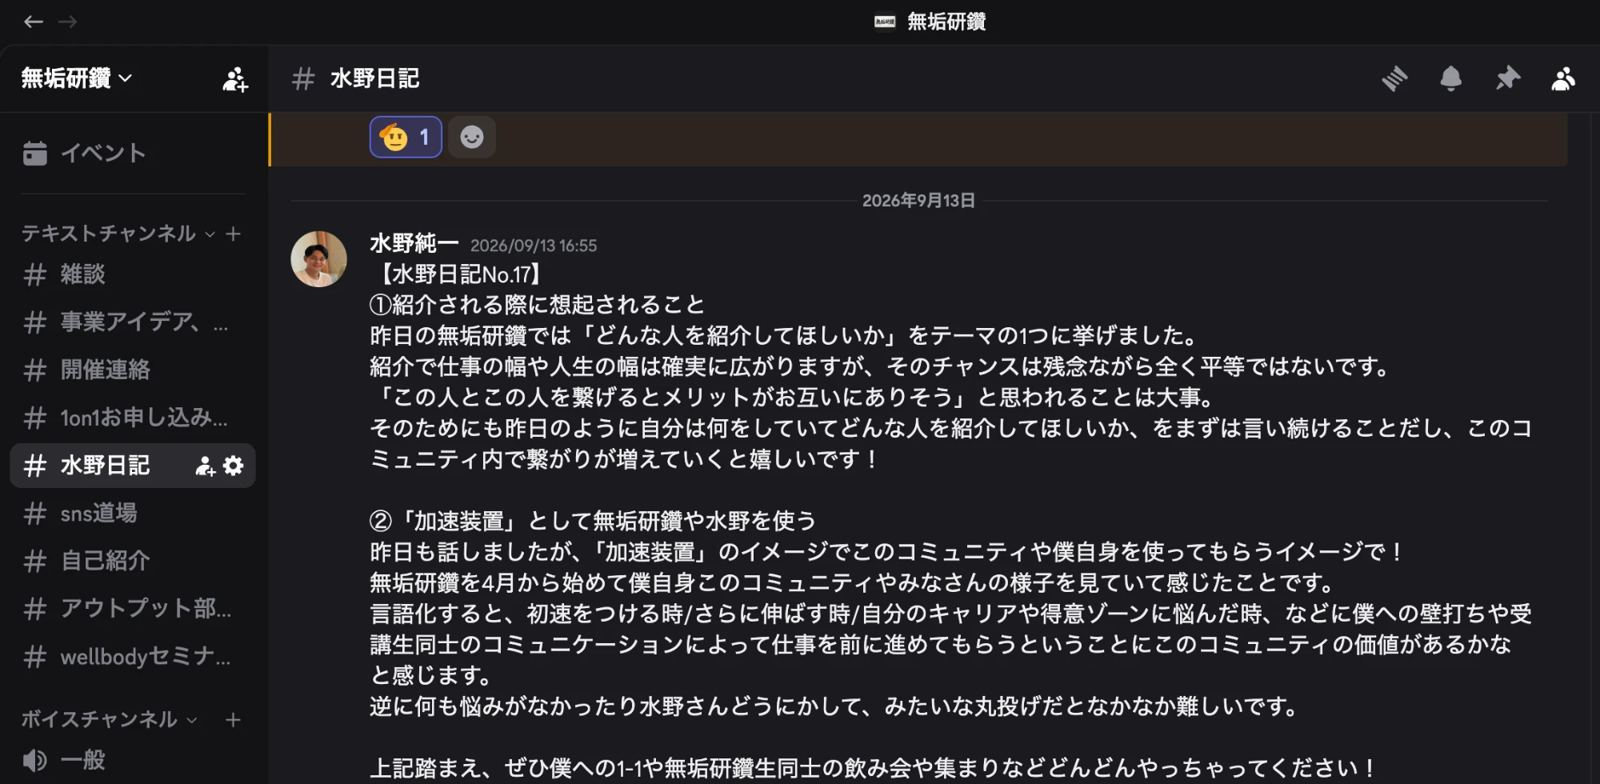
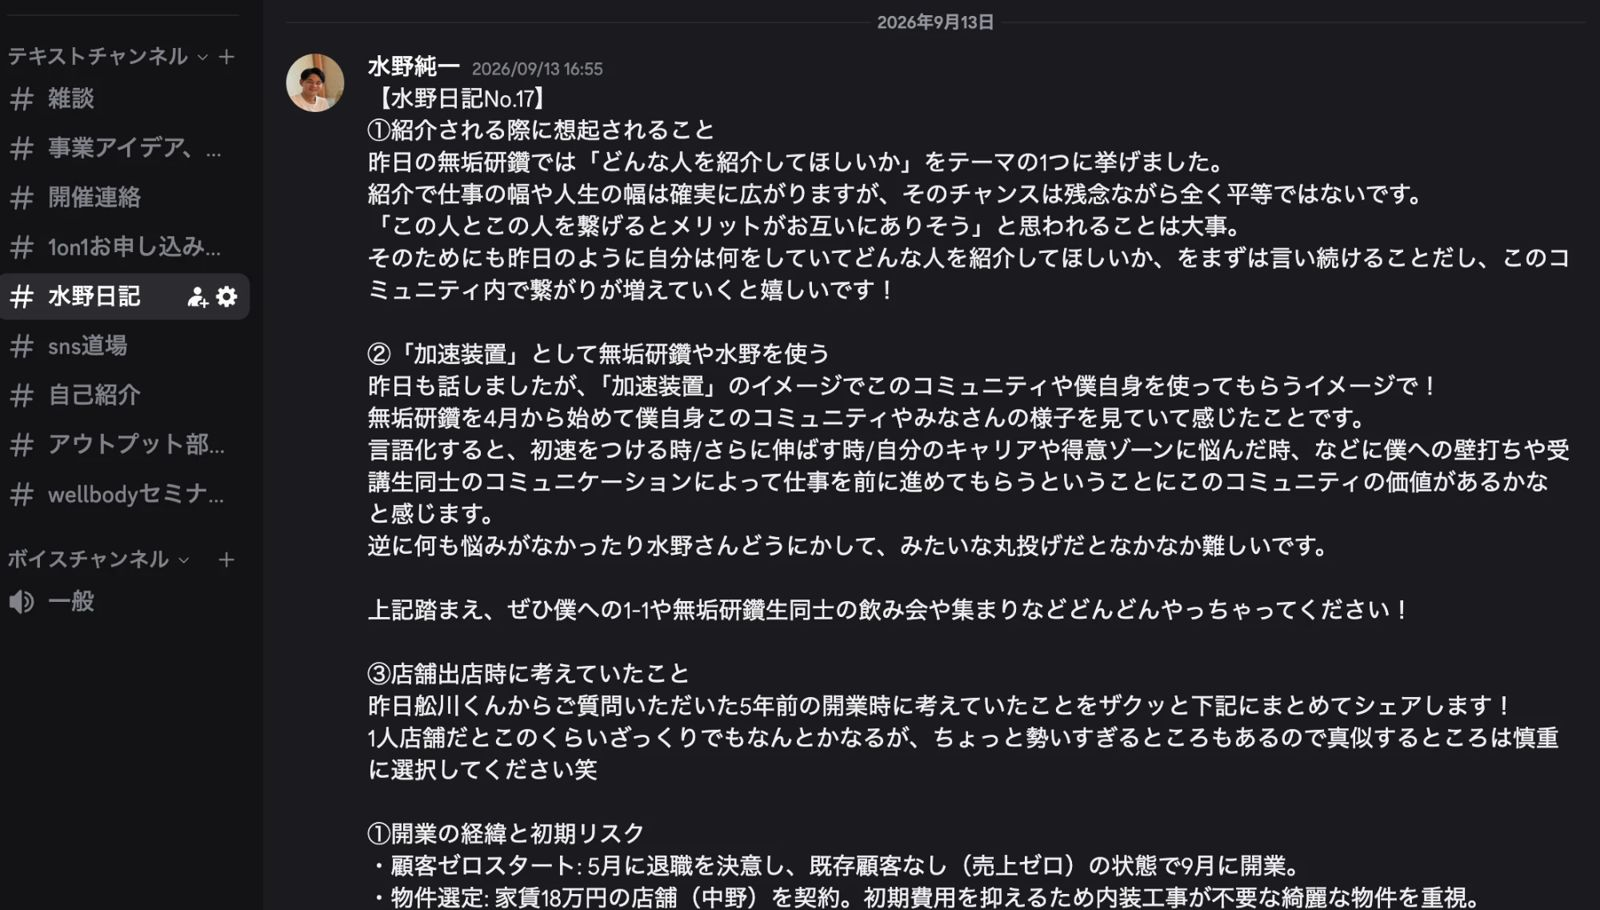
feat: ロゴ・ポッドキャスト・写真を追加、コンセプト文を変更
- ヒーローに筆文字ロゴを大きく配置
- コンセプト文を「自分の武器を増やす」起点の文面に変更
- Discord画面を指示どおり全体表示に差し替え
- 1on1：初回無料／2回目以降3,300円（税込）を明記
- 定例会の流れ（4ステップ）を削除、テーマ一覧のみに
- Spotifyのポッドキャスト3本を埋め込み
- 集合写真の見切れを解消（全体表示）、活動写真を8枚に

diff --git a/index.html b/index.html
@@ -39,6 +39,7 @@
 <section class="hero">
   <div class="hero-text">
     <p class="hero-kicker">セラピスト・トレーナーのための<br class="sp-only">実践型キャリアコミュニティ</p>
+    <img src="assets/images/muku-logo.png" alt="無垢研鑽" class="hero-logo">
     <h1 class="hero-title"><span class="line">人と人との繋がりの中で、</span><span class="line"><span class="em">自分の武器</span>を増やす</span></h1>
     <div class="hero-actions">
       <a href="#join" class="btn btn-primary btn-lg" data-cta="hero">無料オンライン面談に申し込む <span class="arrow">→</span></a>
@@ -65,8 +66,8 @@
       <span class="eyebrow"><span class="idx">01</span><span class="tick"></span>Concept</span>
       <h2 class="sec-title">無垢研鑽とは</h2>
     </div>
-    <p class="concept-catch reveal">武器を増やし、磨くことで、<br><span class="u">思い描くキャリアを歩む。</span></p>
-    <p class="concept-body reveal">知識を交換するだけでなく、実際に動いて成果を持ち寄る。仲間との繋がりの中で、仕事や人生を前に進めていく場所です。</p>
+    <p class="concept-catch reveal"><span class="u">「自分の武器を増やす」</span>を<br class="sp-only">コンセプトとした、実践型のコミュニティ。</p>
+    <p class="concept-body reveal">ただ一方的に知識を学ぶだけでなく、実際に活動して得られた成果や課題をメンバーで共有して、キャリアを前に進めるための場所です。</p>
 
     <h3 class="sub-title reveal">大切にしている5つのこと</h3>
     <ol class="values reveal">
@@ -111,7 +112,7 @@
       </article>
 
       <article class="act reveal">
-        <div class="act-media"><img src="assets/images/discord.jpg" alt="Discordでのやりとり（代表・水野の投稿）" loading="lazy" style="object-position: 50% 0;"></div>
+        <div class="act-media"><img src="assets/images/discord.jpg" alt="Discordでのやりとり（代表・水野の投稿）" loading="lazy" style="object-position: 50% 12%;"></div>
         <div class="act-body">
           <span class="act-no">03</span>
           <h3>Discord</h3>
@@ -125,20 +126,13 @@
           <span class="act-no">04</span>
           <h3>水野との1on1</h3>
           <p>キャリア相談や事業プランの壁打ちを一対一で。</p>
-          <p class="note">2回目以降は有料 <span class="todo">要確認：金額</span></p>
+          <p class="note">初回無料／2回目以降 3,300円（税込）</p>
         </div>
       </article>
     </div>
 
     <div id="regular" class="regular">
       <h3 class="sub-title reveal">定例会でやっていること</h3>
-      <ol class="reg-flow reveal">
-        <li><span class="rf-no">1</span><h4>成果報告</h4><p>この1ヶ月の取り組みを共有。成功も失敗も、なんでも歓迎です。</p></li>
-        <li><span class="rf-no">2</span><h4>水野の講義</h4><p>価格の決め方や仕事の作り方など、臨床の外で必要な実践知。</p></li>
-        <li><span class="rf-no">3</span><h4>ワーク</h4><p>少人数で考え、言葉にして、全員の前で発表します。</p></li>
-        <li><span class="rf-no">4</span><h4>懇親会</h4><p>そのまま飲み会へ。講義の続きや個別の相談も。</p></li>
-      </ol>
-
       <p class="reg-label reveal">これまでのテーマ（一部）</p>
       <div class="themes">
         <div class="theme reveal">
@@ -181,6 +175,10 @@
       <figure><img src="assets/images/group-office.jpg" alt="定例会後の集合写真" loading="lazy"></figure>
       <figure><img src="assets/images/discussion-3.jpg" alt="定例会でのワークの様子" loading="lazy"></figure>
       <figure><img src="assets/images/party-2026b.jpg" alt="懇親会の様子" loading="lazy"></figure>
+      <figure><img src="assets/images/discussion-circle.jpg" alt="車座になってのディスカッション" loading="lazy"></figure>
+      <figure><img src="assets/images/member-talk.jpg" alt="メンバーによるプレゼンテーション" loading="lazy"></figure>
+      <figure><img src="assets/images/discussion-2.jpg" alt="定例会でのグループワーク" loading="lazy"></figure>
+      <figure><img src="assets/images/party-2026.jpg" alt="懇親会で乾杯するメンバー" loading="lazy"></figure>
     </div>
   </div>
 </section>
@@ -211,6 +209,13 @@
       <li>プロサッカー選手のパーソナル担当者の育成 <span class="todo">要確認</span></li>
     </ul>
     <p class="disclaimer reveal">※ 案件の紹介は、入会によってお約束するものではありません。</p>
+
+    <h3 class="sub-title reveal">ポッドキャストで聴く</h3>
+    <div class="podcasts reveal">
+      <iframe src="https://open.spotify.com/embed/episode/1zUbaVFdwMACqmfueQQIjj?utm_source=generator&theme=0" title="#214 療法士向けコミュニティ「無垢研鑽」の説明" height="232" loading="lazy" allow="clipboard-write; encrypted-media; fullscreen; picture-in-picture" allowfullscreen></iframe>
+      <iframe src="https://open.spotify.com/embed/episode/1s835dWK6cupWvfM7UMYQX?utm_source=generator&theme=0" title="#243 無垢研鑽2回目振り返り" height="232" loading="lazy" allow="clipboard-write; encrypted-media; fullscreen; picture-in-picture" allowfullscreen></iframe>
+      <iframe src="https://open.spotify.com/embed/episode/3SDZR9Jtstb54cy8G0S5hn?utm_source=generator&theme=0" title="#317 無垢研鑽メンバー2人の活躍" height="232" loading="lazy" allow="clipboard-write; encrypted-media; fullscreen; picture-in-picture" allowfullscreen></iframe>
+    </div>
   </div>
 </section>
 

diff --git a/assets/css/style.css b/assets/css/style.css
@@ -180,7 +180,7 @@ section { padding: 100px 24px; }
 
 /* ---------- 04 メンバー ---------- */
 .group-photo { margin: 0; border-radius: var(--r); overflow: hidden; }
-.group-photo img { width: 100%; aspect-ratio: 16 / 8; object-fit: cover; object-position: 50% 42%; }
+.group-photo img { width: 100%; }
 .numbers { margin-top: 28px; display: grid; grid-template-columns: repeat(3, 1fr); gap: 16px; text-align: center; }
 .numbers li { background: var(--white); border: 1px solid var(--line); border-radius: var(--r); padding: 22px 12px; }
 .numbers .num { display: block; font-family: var(--serif); font-size: clamp(2rem, 5vw, 2.8rem); font-weight: 800; color: var(--shu); line-height: 1.2; }
@@ -270,7 +270,6 @@ footer .copy { margin-top: 14px; font-size: 0.72rem; color: var(--ink-mute); }
   .weapons, .acts, .voices, .results, .works { grid-template-columns: 1fr; }
   .rep { grid-template-columns: 1fr; gap: 24px; }
   .rep-photo { max-width: 220px; }
-  .group-photo img { aspect-ratio: 4 / 3; }
   .join-wrap { padding: 30px 18px 34px; }
   .flow { grid-template-columns: 1fr 1fr; row-gap: 18px; }
 }
@@ -389,3 +388,12 @@ h1, h2, h3, h4, .hero-lead, .sec-lead, .lead, .range, .catch, .recruit p, .lbl, 
   .rb-main { font-size: 1rem; }
   .gallery { grid-template-columns: 1fr 1fr; gap: 8px; }
 }
+
+/* ---------- ヒーローのロゴ ---------- */
+.hero-logo { width: min(340px, 78%); margin: 22px 0 4px; }
+
+/* ---------- ポッドキャスト ---------- */
+.podcasts { display: grid; grid-template-columns: repeat(3, 1fr); gap: 14px; }
+.podcasts iframe { width: 100%; border: 0; border-radius: 12px; }
+@media (max-width: 760px) { .podcasts { grid-template-columns: 1fr; } }
+@media (max-width: 600px) { .hero-logo { width: 66%; margin: 16px 0 2px; } }
